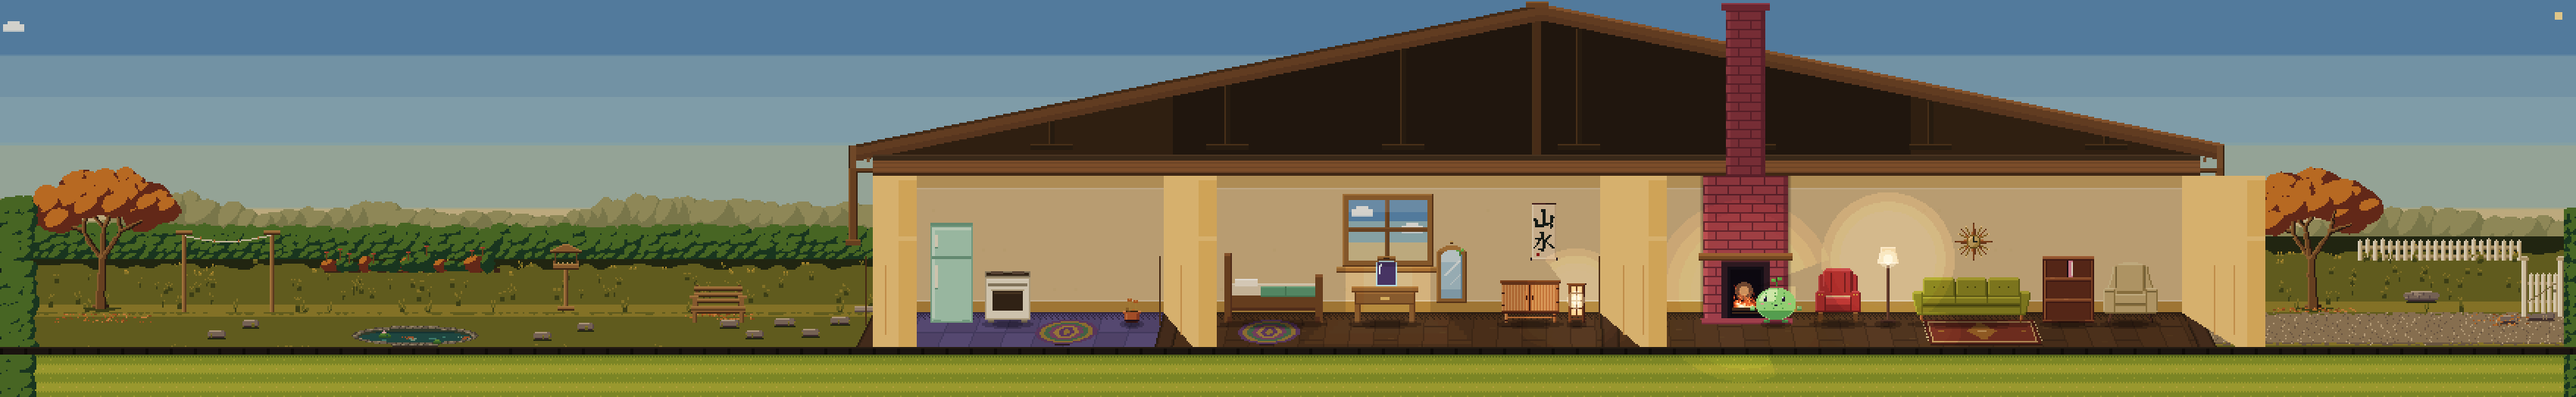
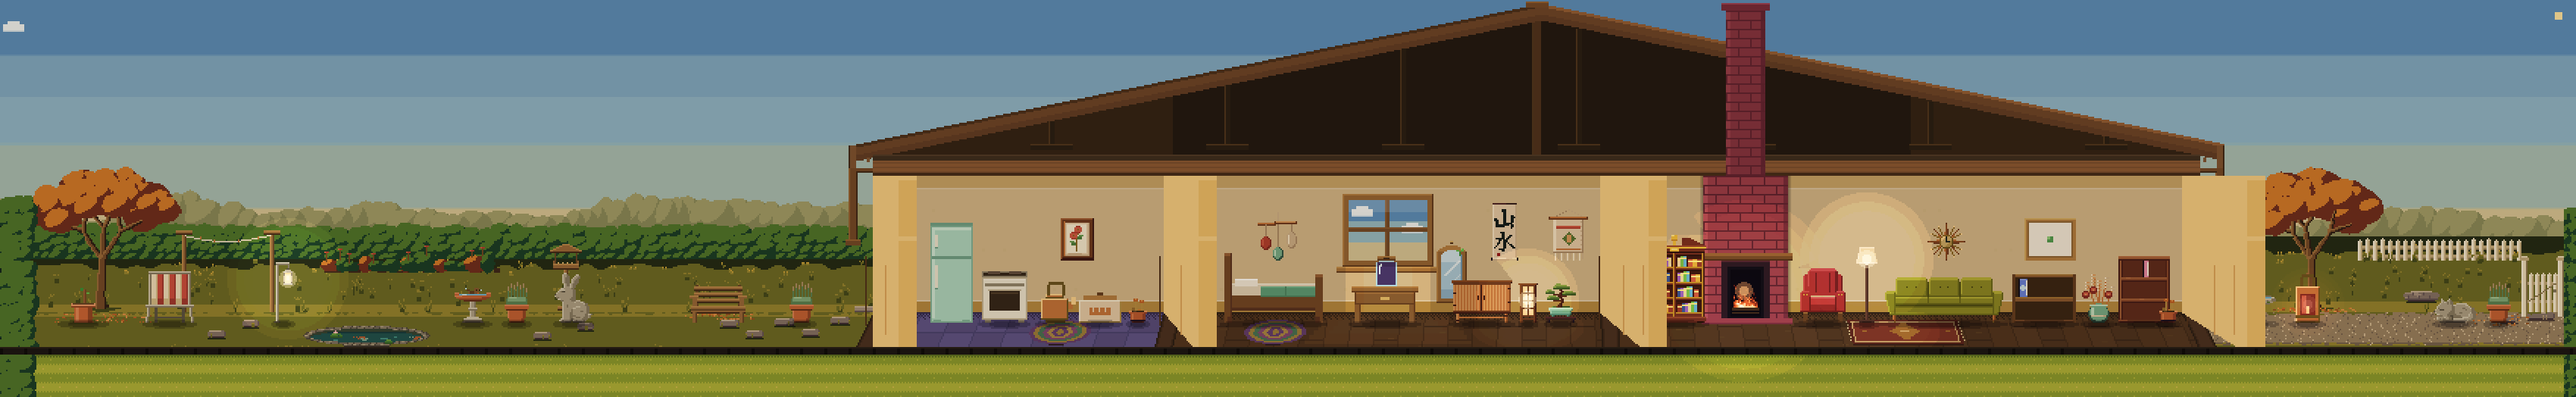
Pixal in every room, a fuller house, Meet Pixal, and the things you do together as a carousel

diff --git a/index.html b/index.html
@@ -20,7 +20,7 @@
 
   <header class="bar">
     <a class="brand" href="/">PIXAL APPS</a>
-    <nav><a href="#home">The home</a><a href="#world">The world</a><a href="#cooking">Cooking</a><a href="#company">Company</a><a href="/support/">Support</a></nav>
+    <nav><a href="#home">The home</a><a href="#meet">Meet Pixal</a><a href="#together">Together</a><a href="#company">Company</a><a href="/support/">Support</a></nav>
   </header>
 
   <section class="hero" id="top">
@@ -58,46 +58,81 @@
           <div class="pano-track">
             <img class="bare" src="/media/house-bare-dusk.png" alt="" width="3400" height="524">
             <img class="full" src="/media/house-home-dusk.png" alt="" width="3400" height="524">
+            <img class="pet" data-room="garden" src="/media/house-pet-garden-dusk.png" alt="" width="3400" height="524">
+            <img class="pet" data-room="kitchen" src="/media/house-pet-kitchen-dusk.png" alt="" width="3400" height="524">
+            <img class="pet" data-room="bedroom" src="/media/house-pet-bedroom-dusk.png" alt="" width="3400" height="524">
+            <img class="pet" data-room="lounge" src="/media/house-pet-lounge-dusk.png" alt="" width="3400" height="524">
+            <img class="pet" data-room="front" src="/media/house-pet-front-dusk.png" alt="" width="3400" height="524">
             <span class="wipe" aria-hidden="true"></span>
           </div>
         </div>
         <ol class="rooms">
-          <li data-at="0"><b>The back garden</b> A bench, a pond, a washing line. Furniture can go outside too.</li>
-          <li data-at="0.35"><b>The kitchen</b> A stove, a fridge and a larder of what you actually bought.</li>
-          <li data-at="0.46"><b>The bedroom</b> His bed, his desk, a paper lantern. He goes up when you put the phone down.</li>
-          <li data-at="0.63"><b>The lounge</b> The hearth, a sofa, a lamp to read by — and the armchair he decided is his.</li>
-          <li data-at="0.85"><b>The front garden</b> Where parcels arrive, gift-wrapped on the path.</li>
+          <li data-at="0"><b>The back garden</b> A lemon tree, a koi pond, a deckchair. He’ll sit and watch the fish for ages.</li>
+          <li data-at="0.346"><b>The kitchen</b> A stove, a kettle, a larder of what you actually bought — and him at the hob.</li>
+          <li data-at="0.459"><b>The bedroom</b> A paper lantern, a bonsai, his desk by the window. He writes there before bed.</li>
+          <li data-at="0.628"><b>The lounge</b> The hearth, a sofa, a shelf of records. Headphones on, he’s not to be disturbed.</li>
+          <li data-at="0.854"><b>The front garden</b> A red lantern, a sleeping cat, and him at the gate to say hello.</li>
         </ol>
         <p class="home-foot">Every piece here is drawn by the game itself — sets from a Japanese lounge to mid-century modern, bought with coins he earns and placed wherever you like.</p>
       </div>
     </section>
 
-    <section class="chapter" id="world">
-      <p class="eyebrow">02 · A world that keeps its own time</p>
-      <h2>Dawn, day, dusk and night are different places to be.</h2>
-      <div class="cols">
-        <p>The sky above this page is the game’s own: nine flat colours in dithered bands, swapped for the hour and the season. Pixal reads the real clock and the real weather, so a rainy Tuesday evening looks like one.</p>
-        <p>Lamps and the hearth are drawn as stacks of hard-edged discs, seven bands each, stepping along the pixel grid. No soft gradients anywhere. The banding is the point.</p>
+    <section class="chapter meet" id="meet">
+      <div class="meet-copy">
+        <p class="eyebrow">02 · Meet Pixal</p>
+        <h2>Your pixel pal, growing up alongside you.</h2>
+        <p>Pixal is a small creature who lives in your phone and keeps you company. He has moods, a taste in food and music, and a favourite chair he chose himself. He cooks with you, tends the garden, reads, wanders off for the day and comes home with stories.</p>
+        <p>He isn’t waiting for instructions. He gets on with his day whether or not you’re watching — and over weeks his hobbies level up, his opinions settle in, and the cabin starts to look like someone lives there.</p>
       </div>
+      <figure class="pal" aria-label="Pixal, cycling through things he does">
+        <div class="pal-stage">
+          <img src="/media/pixal-idle.png" alt="" class="on" data-say="pottering about">
+          <img src="/media/pixal-wave.png" alt="" data-say="saying hello">
+          <img src="/media/pixal-read.png" alt="" data-say="reading a good book">
+          <img src="/media/pixal-drink.png" alt="" data-say="having a cuppa">
+          <img src="/media/pixal-jump.png" alt="" data-say="delighted about something">
+        </div>
+        <figcaption class="pal-say" aria-live="polite">pottering about</figcaption>
+      </figure>
     </section>
 
-    <section class="story" id="cooking">
-      <div class="story-stage" aria-hidden="true">
-        <div class="stage-frame">
-          <img src="/media/cook-prep.jpg" alt="" class="on">
-          <img src="/media/cook-toss.jpg" alt="">
-          <img src="/media/cook-sizzle.jpg" alt="">
-          <img src="/media/cook-reveal.jpg" alt="">
-          <div class="sparks"></div>
-        </div>
-        <ol class="ticks"><li class="on"></li><li></li><li></li><li></li></ol>
+    <section class="together" id="together" aria-labelledby="together-title">
+      <div class="together-head">
+        <p class="eyebrow">03 · Things you do together</p>
+        <h2 id="together-title">Cook, grow, listen, write, wander.</h2>
       </div>
-      <div class="story-steps">
-        <p class="eyebrow">03 · Cooking together</p>
-        <article class="step" data-step="0"><h3>Prep</h3><p>You cook from what’s actually in the larder. Three ingredients, one pan, and a creature who has opinions about all of it.</p></article>
-        <article class="step" data-step="1"><h3>Toss</h3><p>The first time he makes something new, the kitchen becomes a little scene — a bold frame, a push in, a held pose before the hit.</p></article>
-        <article class="step" data-step="2"><h3>Sizzle</h3><p>Steam, sparks and a worried face. Dishes aren’t a list handed to you: a recipe gets its name only once he recognises it.</p></article>
-        <article class="step" data-step="3"><h3>Reveal</h3><p>Then the payoff, and a page in the recipe book he writes himself. His palate becomes a taste map you can actually look at.</p></article>
+      <div class="carousel" tabindex="0" aria-roledescription="carousel" aria-label="Things you do with Pixal">
+        <article class="slide" aria-roledescription="slide" aria-label="Cook">
+          <div class="slide-pic tall cook-flow">
+            <img src="/media/cook-prep.jpg" alt="Pixal at the stove with his ingredients" class="on">
+            <img src="/media/cook-toss.jpg" alt="Pixal tossing the pan">
+            <img src="/media/cook-sizzle.jpg" alt="The pan sizzling, Pixal worried">
+            <img src="/media/cook-reveal.jpg" alt="Pixal delighted with the finished dish">
+            <ol class="beats"><li class="on">prep</li><li>toss</li><li>sizzle</li><li>reveal</li></ol>
+          </div>
+          <div class="slide-copy"><h3>Cook</h3><p>Three ingredients from your real larder, one pan, and a creature with opinions about all of it. The first time he makes something new, the kitchen becomes a little cinematic — and a recipe gets its name only once he recognises it.</p></div>
+        </article>
+        <article class="slide" aria-roledescription="slide" aria-label="Grow">
+          <div class="slide-pic wide"><img src="/media/scene-grow.png" alt="Pixal tending two vegetable beds in the back garden" loading="lazy"></div>
+          <div class="slide-copy"><h3>Grow</h3><p>Beds by the back door and crops that only take in their own season — peas in spring, pumpkins in autumn, kale through the winter. A ripe bed waits for you; a frost won’t.</p></div>
+        </article>
+        <article class="slide" aria-roledescription="slide" aria-label="Listen">
+          <div class="slide-pic wide"><img src="/media/scene-listen.png" alt="Pixal in headphones by his record shelf in the lounge at dusk" loading="lazy"></div>
+          <div class="slide-copy"><h3>Listen</h3><p>Put music on in any app and he notices within seconds. Whether he joins in is up to him: his mood, the hour and what he’s busy with decide it. He’s a pet, not a mirror.</p></div>
+        </article>
+        <article class="slide" aria-roledescription="slide" aria-label="Write and read">
+          <div class="slide-pic wide"><img src="/media/scene-write.png" alt="Pixal writing at his desk in the bedroom by lantern light" loading="lazy"></div>
+          <div class="slide-copy"><h3>Write &amp; read</h3><p>Books level up his reading, and the reading unlocks whole furniture sets. At his desk he keeps a recipe book and a journal of the days you’ve had.</p></div>
+        </article>
+        <article class="slide" aria-roledescription="slide" aria-label="Days out">
+          <div class="slide-pic tall"><video muted loop playsinline preload="none" poster="/media/day.jpg" data-src="/media/day.mp4"></video></div>
+          <div class="slide-copy"><h3>Days out</h3><p>He takes himself off along named routes to shops, a fishing pond and places further out — and sometimes, instead of a thing, he comes home with a whole new place.</p></div>
+        </article>
+      </div>
+      <div class="carousel-nav">
+        <button type="button" class="prev" aria-label="Previous">◀</button>
+        <ol class="dots" aria-hidden="true"><li class="on"></li><li></li><li></li><li></li><li></li></ol>
+        <button type="button" class="next" aria-label="Next">▶</button>
       </div>
     </section>
 
@@ -105,10 +140,10 @@
       <p class="eyebrow">04 · He works out what he likes</p>
       <h2>Every time he settles somewhere, the moment is scored.</h2>
       <div class="cards">
-        <article class="card"><span class="glyph" aria-hidden="true">♪</span><h3>He hears your music</h3><p>Put something on in any app and he notices within seconds. Whether he joins in is up to him — his mood, the hour and what he’s busy with decide it. He’s a pet, not a mirror.</p></article>
         <article class="card"><span class="glyph" aria-hidden="true">♥</span><h3>Favourite places</h3><p>Was the fire lit? A record on? Rain at the glass? Each moment becomes a fondness for that chair or that desk, fading over a fortnight unless something keeps it alive.</p></article>
-        <article class="card"><span class="glyph" aria-hidden="true">✿</span><h3>A garden through the year</h3><p>Beds by the front door, crops that only take in their own season, and a frost that will claim whatever’s still in the ground.</p></article>
-        <article class="card"><span class="glyph" aria-hidden="true">➶</span><h3>Days out</h3><p>He takes himself off along named routes and comes home with what he found — and sometimes, instead of a thing, a whole new place.</p></article>
+        <article class="card"><span class="glyph" aria-hidden="true">☼</span><h3>On your clock</h3><p>Pixal runs on the real hour, season and weather. The sky behind this page is the game’s own, set to yours right now.</p></article>
+        <article class="card"><span class="glyph" aria-hidden="true">★</span><h3>Hobbies that grow</h3><p>Cooking, gardening, reading, music and more each level up with practice, unlocking new recipes, crops and pieces for the house.</p></article>
+        <article class="card"><span class="glyph" aria-hidden="true">✉</span><h3>Quests and gifts</h3><p>Finish a set or find every place and something arrives that the shop never sells, gift-wrapped on the path.</p></article>
       </div>
     </section>
 

diff --git a/home.css b/home.css
@@ -26,7 +26,7 @@ a { color: inherit; }
 #sky { position: fixed; inset: 0; width: 100vw; height: 100lvh; image-rendering: pixelated; z-index: -1; }
 
 /* A pixel border: hard steps, no radius. */
-.px-border, .frame, .card, .company-card, .stage-frame, .strip figure, .badge, #now {
+.px-border, .frame, .card, .company-card, .slide-pic, .strip figure, .badge, #now, .carousel-nav button {
   box-shadow:
     0 calc(-1 * var(--px)) 0 0 currentColor, 0 var(--px) 0 0 currentColor,
     calc(-1 * var(--px)) 0 0 0 currentColor, var(--px) 0 0 0 currentColor;
@@ -94,24 +94,6 @@ h3 { font-family: Silkscreen, monospace; font-size: 16px; letter-spacing: 1px; m
 .card p { margin: 0; }
 .glyph { display: inline-grid; place-items: center; width: 44px; height: 44px; margin-bottom: 18px; background: var(--brown); color: var(--paper); font-size: 26px; }
 
-/* ---------- the cooking story (sticky stage, steps scroll past) ---------- */
-.story { display: grid; grid-template-columns: 1fr 1fr; gap: 56px; max-width: 1120px; margin: 0 auto; padding: 40px max(24px, 6vw) 80px; }
-.story-stage { position: sticky; top: 12vh; height: 76vh; display: flex; flex-direction: column; align-items: center; justify-content: center; gap: 22px; }
-.stage-frame { position: relative; height: 100%; aspect-ratio: 9 / 16; max-width: 100%; overflow: hidden; background: #1b120e; color: #2a1f1a; }
-.stage-frame img { position: absolute; inset: 0; width: 100%; height: 100%; object-fit: cover; opacity: 0; transform: scale(1.08); transition: opacity .45s steps(6), transform 6s linear; }
-.stage-frame img.on { opacity: 1; transform: scale(1); }
-.sparks { position: absolute; inset: 0; pointer-events: none; }
-.sparks i { position: absolute; width: 6px; height: 6px; background: #ffe7a3; animation: rise 1.6s steps(8) forwards; }
-@keyframes rise { to { transform: translate(var(--dx), -140px); opacity: 0; } }
-.ticks { display: flex; gap: 10px; list-style: none; margin: 0; padding: 0; }
-.ticks li { width: 26px; height: 8px; background: var(--paper-deep); transition: background .3s steps(3); }
-.ticks li.on { background: var(--brown); }
-.story-steps { padding-top: 70px; }
-.step { min-height: 72vh; display: flex; flex-direction: column; justify-content: center; font-size: 26px; opacity: .3; transition: opacity .4s steps(4); }
-.step.on { opacity: 1; }
-.step h3 { font-size: 34px; margin-bottom: 16px; }
-.step p { margin: 0; max-width: 26ch; }
-
 /* ---------- film strip ---------- */
 .strip-chapter { padding-bottom: 80px; }
 .note { margin: -18px 0 30px; color: var(--brown-soft); }
@@ -144,13 +126,6 @@ h3 { font-family: Silkscreen, monospace; font-size: 16px; letter-spacing: 1px; m
   .window { width: min(360px, 100%); min-width: 0; }
   .cols, .cards { grid-template-columns: 1fr; gap: 26px; }
   .chapter { padding: 80px 20px; }
-  .story { grid-template-columns: 1fr; gap: 0; padding: 20px 20px 60px; }
-  .story-stage { top: 64px; height: 62vh; z-index: 1; }
-  .story-steps { padding-top: 0; margin-top: -10vh; position: relative; z-index: 2; }
-  .step { min-height: 64vh; justify-content: flex-end; padding-bottom: 6vh; opacity: 0; }
-  .step.on { opacity: 1; }
-  .step > * { background: rgba(255, 248, 236, .94); padding: 14px 16px; margin: 0; box-shadow: 0 0 0 4px var(--brown); }
-  .step h3 { font-size: 22px; margin-bottom: 0; }
   .strip { grid-auto-columns: 70%; }
   .company { padding: 70px 16px; }
   .company-card { padding: 28px 22px; }
@@ -161,7 +136,6 @@ h3 { font-family: Silkscreen, monospace; font-size: 16px; letter-spacing: 1px; m
 @media (prefers-reduced-motion: reduce) {
   html { scroll-behavior: auto; }
   .reveal { opacity: 1; transform: none; transition: none; }
-  .stage-frame img { transition: opacity .2s; transform: none !important; }
 }
 
 /* ---------- the home: the cabin pans past and furnishes itself as you scroll ---------- */
@@ -172,7 +146,9 @@ h3 { font-family: Silkscreen, monospace; font-size: 16px; letter-spacing: 1px; m
 .pano { position: relative; height: clamp(180px, 46vh, 520px); overflow: hidden; background: #1d213c; }
 .pano-track { position: absolute; top: 0; left: 0; height: 100%; aspect-ratio: 3400 / 524; will-change: transform; }
 .pano-track img { position: absolute; inset: 0; width: 100%; height: 100%; image-rendering: pixelated; max-width: none; }
-.pano-track .full { clip-path: inset(0 calc(100% - var(--reveal, 0%)) 0 0); }
+.pano-track .full, .pano-track .pet { clip-path: inset(0 calc(100% - var(--reveal, 0%)) 0 0); }
+.pano-track .pet { opacity: 0; transition: opacity .35s steps(4); }
+.pano-track .pet.on { opacity: 1; }
 .wipe { position: absolute; top: 0; bottom: 0; left: var(--reveal, 0%); width: 6px; margin-left: -3px;
   background: repeating-linear-gradient(180deg, #fff8ec 0 8px, transparent 8px 14px); opacity: var(--wipe-on, 1); transition: opacity .3s steps(3); }
 .rooms { list-style: none; margin: 0; padding: 0 max(24px, 6vw); display: grid; grid-template-columns: repeat(5, 1fr); gap: 18px; font-size: 20px; line-height: 1.15; }
@@ -190,3 +166,50 @@ h3 { font-family: Silkscreen, monospace; font-size: 16px; letter-spacing: 1px; m
   .home-foot { font-size: 18px; }
 }
 @media (prefers-reduced-motion: reduce) { .home { height: auto; } .home-pin { position: static; height: auto; } }
+
+/* ---------- meet pixal ---------- */
+.meet { display: grid; grid-template-columns: 1.2fr .8fr; gap: 60px; align-items: center; }
+.meet-copy p { font-size: 25px; margin: 0 0 18px; max-width: 34ch; }
+.pal { margin: 0; justify-self: center; text-align: center; }
+.pal-stage { position: relative; width: min(360px, 70vw); aspect-ratio: 240 / 200; }
+.pal-stage img { position: absolute; inset: 0; width: 100%; height: 100%; image-rendering: pixelated; opacity: 0; }
+.pal-stage img.on { opacity: 1; animation: bob 1.2s steps(2) infinite; }
+@keyframes bob { 50% { transform: translateY(-6px); } }
+.pal-say { margin-top: 14px; font: 700 13px Silkscreen, monospace; letter-spacing: 1px; color: var(--brown); }
+.pal-say::before { content: "▸ "; }
+
+/* ---------- things you do together: a carousel ---------- */
+.together { background: var(--paper-deep); padding: 100px 0 80px; }
+.together-head { max-width: 1120px; margin: 0 auto; padding: 0 max(24px, 6vw); }
+.carousel { display: grid; grid-auto-flow: column; grid-auto-columns: min(1040px, 86vw); gap: 40px; overflow-x: auto; scroll-snap-type: x mandatory;
+  padding: 10px max(24px, calc((100vw - 1040px) / 2)) 26px; scrollbar-width: none; outline: none; align-items: start; }
+.carousel::-webkit-scrollbar { display: none; }
+.slide { scroll-snap-align: center; display: grid; grid-template-columns: 1.3fr 1fr; gap: 40px; align-items: center; background: #fff8ec; padding: 26px; box-shadow: 0 -4px 0 0 var(--brown), 0 4px 0 0 var(--brown), -4px 0 0 0 var(--brown), 4px 0 0 0 var(--brown); }
+.slide-pic { position: relative; overflow: hidden; background: #1b120e; color: #2a1f1a; }
+.slide-pic.wide { aspect-ratio: 16 / 7.5; }
+.slide-pic.tall { aspect-ratio: 9 / 12; max-height: 62vh; justify-self: center; width: 100%; }
+.slide-pic img, .slide-pic video { position: absolute; inset: 0; width: 100%; height: 100%; object-fit: cover; image-rendering: pixelated; }
+.cook-flow img { opacity: 0; transition: opacity .4s steps(5); }
+.cook-flow img.on { opacity: 1; }
+.beats { position: absolute; left: 10px; right: 10px; bottom: 10px; display: flex; gap: 6px; list-style: none; margin: 0; padding: 0; }
+.beats li { flex: 1; text-align: center; font: 10px Silkscreen, monospace; letter-spacing: 1px; padding: 5px 0; background: rgba(27,18,14,.7); color: #c9b9a6; }
+.beats li.on { background: var(--gold); color: #2a1f1a; }
+.slide-copy h3 { font-size: 28px; margin-bottom: 14px; }
+.slide-copy p { margin: 0; font-size: 24px; }
+.carousel-nav { display: flex; align-items: center; justify-content: center; gap: 22px; margin-top: 18px; color: var(--brown); }
+.carousel-nav button { background: #fff8ec; border: 0; color: var(--brown); font-size: 14px; width: 44px; height: 40px; cursor: pointer; }
+.carousel-nav button:hover { background: var(--brown); color: var(--paper); }
+.dots { display: flex; gap: 10px; list-style: none; margin: 0; padding: 0; }
+.dots li { width: 12px; height: 12px; background: var(--paper); box-shadow: 0 0 0 3px var(--brown); }
+.dots li.on { background: var(--brown); }
+
+@media (max-width: 860px) {
+  .meet { grid-template-columns: 1fr; gap: 30px; }
+  .pal { order: -1; }
+  .together { padding: 70px 0 60px; }
+  .carousel { grid-auto-columns: 88vw; gap: 18px; padding: 8px 6vw 22px; }
+  .slide { grid-template-columns: 1fr; gap: 18px; padding: 16px; }
+  .slide-pic.tall { aspect-ratio: 1 / 1; max-height: none; }
+  .slide-copy h3 { font-size: 22px; margin-bottom: 8px; }
+  .slide-copy p { font-size: 20px; }
+}

diff --git a/home.js b/home.js
@@ -162,7 +162,10 @@
   const lightHouse = () => {
     const light = t >= 2.5 && t < 3.5 ? 'night' : t >= 0.6 && t < 1.6 ? 'day' : 'dusk';
     if (light === houseLight) return; houseLight = light;
-    houseImgs.forEach((img) => { img.src = `/media/house-${img.classList.contains('full') ? 'home' : 'bare'}-${light}.png`; });
+    houseImgs.forEach((img) => {
+      const layer = img.classList.contains('pet') ? `pet-${img.dataset.room}` : img.classList.contains('full') ? 'home' : 'bare';
+      img.src = `/media/house-${layer}-${light}.png`;
+    });
   };
   const apply = () => { draw(); showLoops(); describe(); lightHouse(); };
   dial.max = 300;
@@ -175,6 +178,7 @@
   // ---------- the home: pinned while the cabin pans past, furnishing itself behind the wipe ----------
   const home = document.getElementById('home'), pano = home.querySelector('.pano'), track = home.querySelector('.pano-track');
   const rooms = [...home.querySelectorAll('.rooms li')];
+  const pets = [...home.querySelectorAll('.pano-track .pet')];   // one Pixal per room, in the rooms' order
   const ease = (x) => x * x * (3 - 2 * x);
   const furnish = () => {
     const r = home.getBoundingClientRect(), total = home.offsetHeight - innerHeight;
@@ -182,41 +186,55 @@
     const trackW = track.offsetWidth, viewW = pano.clientWidth, maxShift = Math.max(0, trackW - viewW);
     const pan = ease(Math.min(1, p / 0.88));
     const shift = maxShift * pan;
-    const lead = viewW * 0.62 * Math.min(1, p / 0.06);
-    const reveal = p >= 0.92 ? 1 : Math.min(1, (shift + lead) / trackW);
+    // The wipe leads from 62% of the view to its right edge as the pan ends, so the last room fills in smoothly.
+    const lead = viewW * (0.62 + 0.38 * ease(Math.min(1, Math.max(0, (p - 0.55) / 0.33)))) * Math.min(1, p / 0.06);
+    const reveal = Math.min(1, (shift + lead) / trackW);
     track.style.transform = `translateX(${-shift}px)`;
     track.style.setProperty('--reveal', `${(reveal * 100).toFixed(2)}%`);
-    track.style.setProperty('--wipe-on', reveal > 0.002 && reveal < 1 ? 1 : 0);
+    track.style.setProperty('--wipe-on', reveal > 0.002 && reveal < 0.999 ? 1 : 0);
     let now = 0;
     rooms.forEach((li, k) => { const on = reveal >= Number(li.dataset.at) && (k > 0 || reveal > 0.01); li.classList.toggle('on', on); if (on) now = k; });
     rooms.forEach((li, k) => li.classList.toggle('now', k === now));
+    pets.forEach((img, k) => img.classList.toggle('on', k === now && reveal > 0.01));
   };
   const onScroll = () => { bar.classList.toggle('solid', scrollY > innerHeight * 0.75); furnish(); };
   addEventListener('scroll', onScroll, { passive: true });
 
-  // ---------- the cooking story ----------
-  const frames = [...document.querySelectorAll('.stage-frame img')];
-  const ticks = [...document.querySelectorAll('.ticks li')];
-  const steps = [...document.querySelectorAll('.step')];
-  const sparks = document.querySelector('.sparks');
-  let shown = 0;
-  const show = (n) => {
-    if (n === shown) return; shown = n;
-    frames.forEach((f, k) => f.classList.toggle('on', k === n));
-    ticks.forEach((x, k) => x.classList.toggle('on', k <= n));
-    steps.forEach((s, k) => s.classList.toggle('on', k === n));
-    if (n === 3 && !reduced) for (let k = 0; k < 18; k++) {
-      const i = document.createElement('i');
-      i.style.left = `${30 + Math.random() * 40}%`; i.style.top = `${48 + Math.random() * 18}%`;
-      i.style.setProperty('--dx', `${(Math.random() - 0.5) * 120}px`); i.style.animationDelay = `${Math.random() * 0.4}s`;
-      sparks.appendChild(i); setTimeout(() => i.remove(), 2200);
+  // ---------- meet Pixal: he cycles through what he gets up to ----------
+  const poses = [...document.querySelectorAll('.pal-stage img')], say = document.querySelector('.pal-say');
+  let pose = 0;
+  if (!reduced) setInterval(() => {
+    poses[pose].classList.remove('on'); pose = (pose + 1) % poses.length; poses[pose].classList.add('on');
+    say.textContent = poses[pose].dataset.say;
+  }, 1800);
+
+  // ---------- things you do together: the carousel ----------
+  const carousel = document.querySelector('.carousel'), slides = [...carousel.querySelectorAll('.slide')];
+  const dots = [...document.querySelectorAll('.dots li')];
+  let current = 0;
+  const goTo = (n) => { const k = (n + slides.length) % slides.length; carousel.scrollTo({ left: slides[k].offsetLeft - (carousel.clientWidth - slides[k].clientWidth) / 2, behavior: reduced ? 'auto' : 'smooth' }); };
+  document.querySelector('.carousel-nav .prev').addEventListener('click', () => goTo(current - 1));
+  document.querySelector('.carousel-nav .next').addEventListener('click', () => goTo(current + 1));
+  carousel.addEventListener('keydown', (e) => { if (e.key === 'ArrowRight') goTo(current + 1); if (e.key === 'ArrowLeft') goTo(current - 1); });
+  const slideSeen = new IntersectionObserver((entries) => {
+    for (const e of entries) {
+      const v = e.target.querySelector('video');
+      if (v && e.isIntersecting && !v.src) v.src = v.dataset.src;
+      if (v) { if (e.isIntersecting && !reduced) v.play().catch(() => {}); else v.pause(); }
+      if (e.intersectionRatio > 0.6) { current = slides.indexOf(e.target); dots.forEach((d, k) => d.classList.toggle('on', k === current)); }
     }
-  };
-  steps[0].classList.add('on');
-  const stepObserver = new IntersectionObserver((entries) => {
-    for (const e of entries) if (e.isIntersecting) show(Number(e.target.dataset.step));
-  }, { rootMargin: '-45% 0px -45% 0px' });
-  steps.forEach((s) => stepObserver.observe(s));
+  }, { root: carousel, threshold: [0, 0.6] });
+  slides.forEach((sl) => slideSeen.observe(sl));
+  // The cooking slide plays its four beats while it's in view.
+  const cook = document.querySelector('.cook-flow'), cookFrames = [...cook.querySelectorAll('img')], cookBeats = [...cook.querySelectorAll('.beats li')];
+  let beat = 0, cookVisible = false;
+  new IntersectionObserver(([e]) => { cookVisible = e.isIntersecting; }).observe(cook);
+  if (!reduced) setInterval(() => {
+    if (!cookVisible) return;
+    beat = (beat + 1) % cookFrames.length;
+    cookFrames.forEach((f, k) => f.classList.toggle('on', k === beat));
+    cookBeats.forEach((x, k) => x.classList.toggle('on', k === beat));
+  }, 1700);
 
   // ---------- chapters ease in as they arrive ----------
   const reveal = new IntersectionObserver((entries) => {
